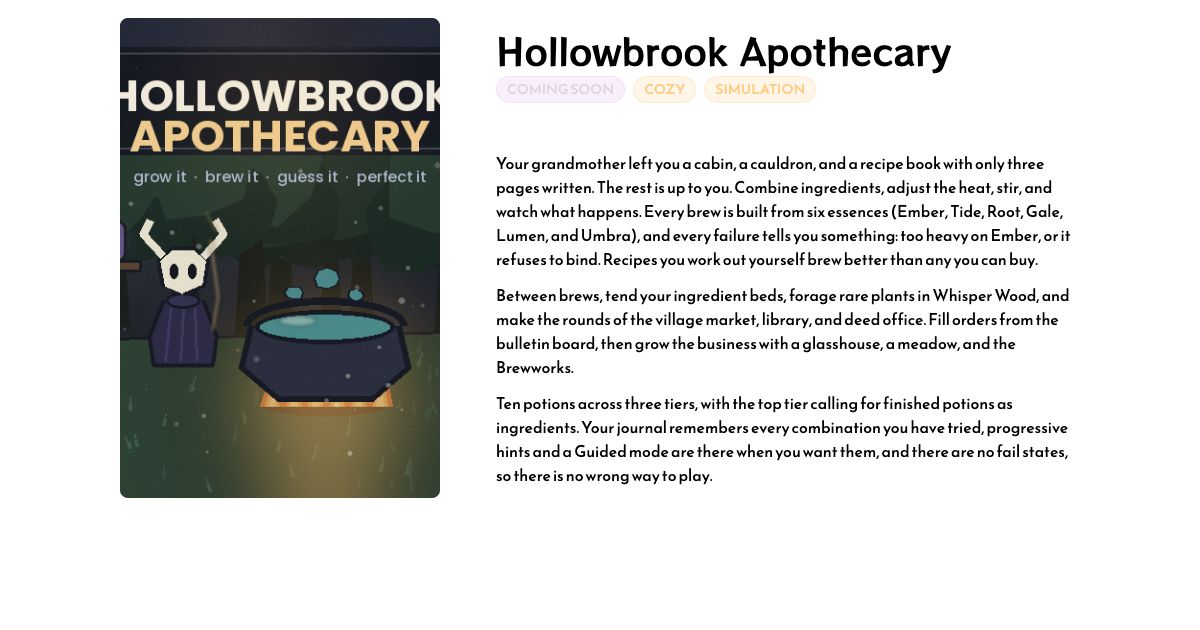
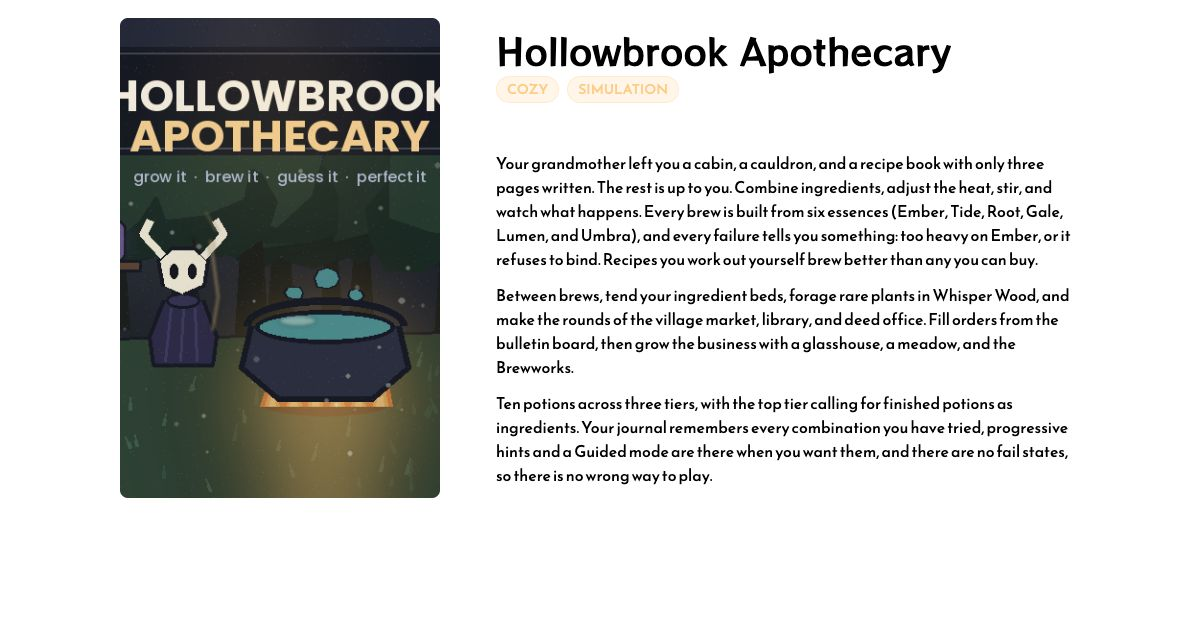
sandbox SEO: regenerate link previews for Hotdog Hustler
Adds the hotdog-hustler preview, drops the orphaned game-five one, and
refreshes the crowdfunding grid and Hollowbrook shots, which changed
with the admin-panel edit (Hollowbrook is no longer Coming Soon).

Changed region(s): [[0.4008, 0.1206, 0.6783, 0.181]]

diff --git a/src/data/og-images.js b/src/data/og-images.js
@@ -30,9 +30,9 @@ export const ogImages = {
   "/crowdfunding-games/blind-slight": "/assets/og/crowdfunding-games--blind-slight.jpg",
   "/crowdfunding-games/boardwalk": "/assets/og/crowdfunding-games--boardwalk.jpg",
   "/crowdfunding-games/dead-hour": "/assets/og/crowdfunding-games--dead-hour.jpg",
-  "/crowdfunding-games/game-five": "/assets/og/crowdfunding-games--game-five.jpg",
   "/crowdfunding-games/game-six": "/assets/og/crowdfunding-games--game-six.jpg",
   "/crowdfunding-games/hollowbrook-apothecary": "/assets/og/crowdfunding-games--hollowbrook-apothecary.jpg",
+  "/crowdfunding-games/hotdog-hustler": "/assets/og/crowdfunding-games--hotdog-hustler.jpg",
   "/home-usb-background": "/assets/og/home-usb-background.jpg",
   "/investors": "/assets/og/investors.jpg",
   "/kickstarter-button-v2": "/assets/og/kickstarter-button-v2.jpg",
